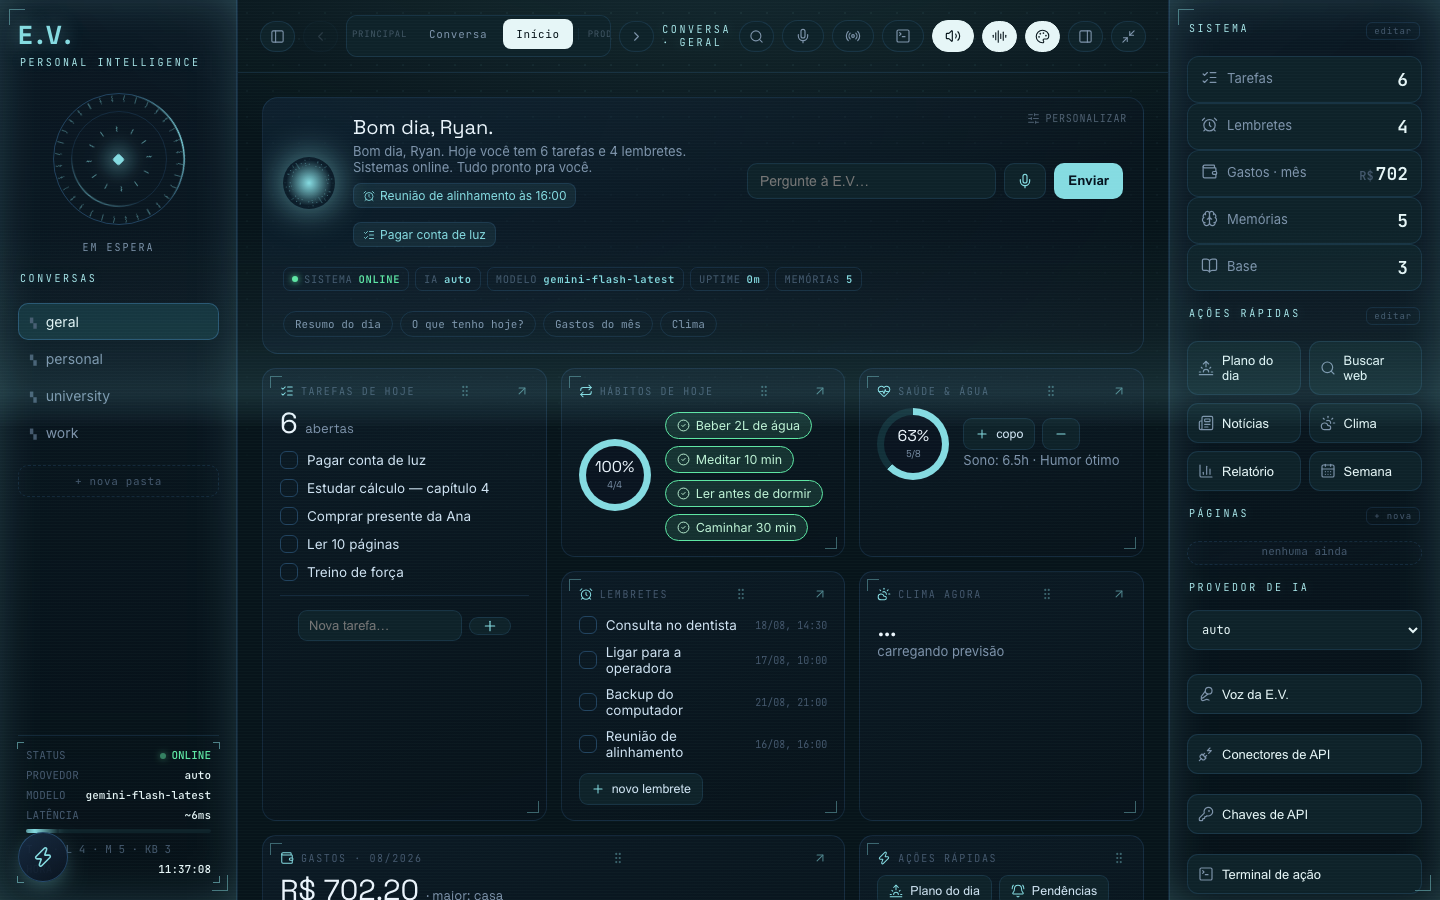
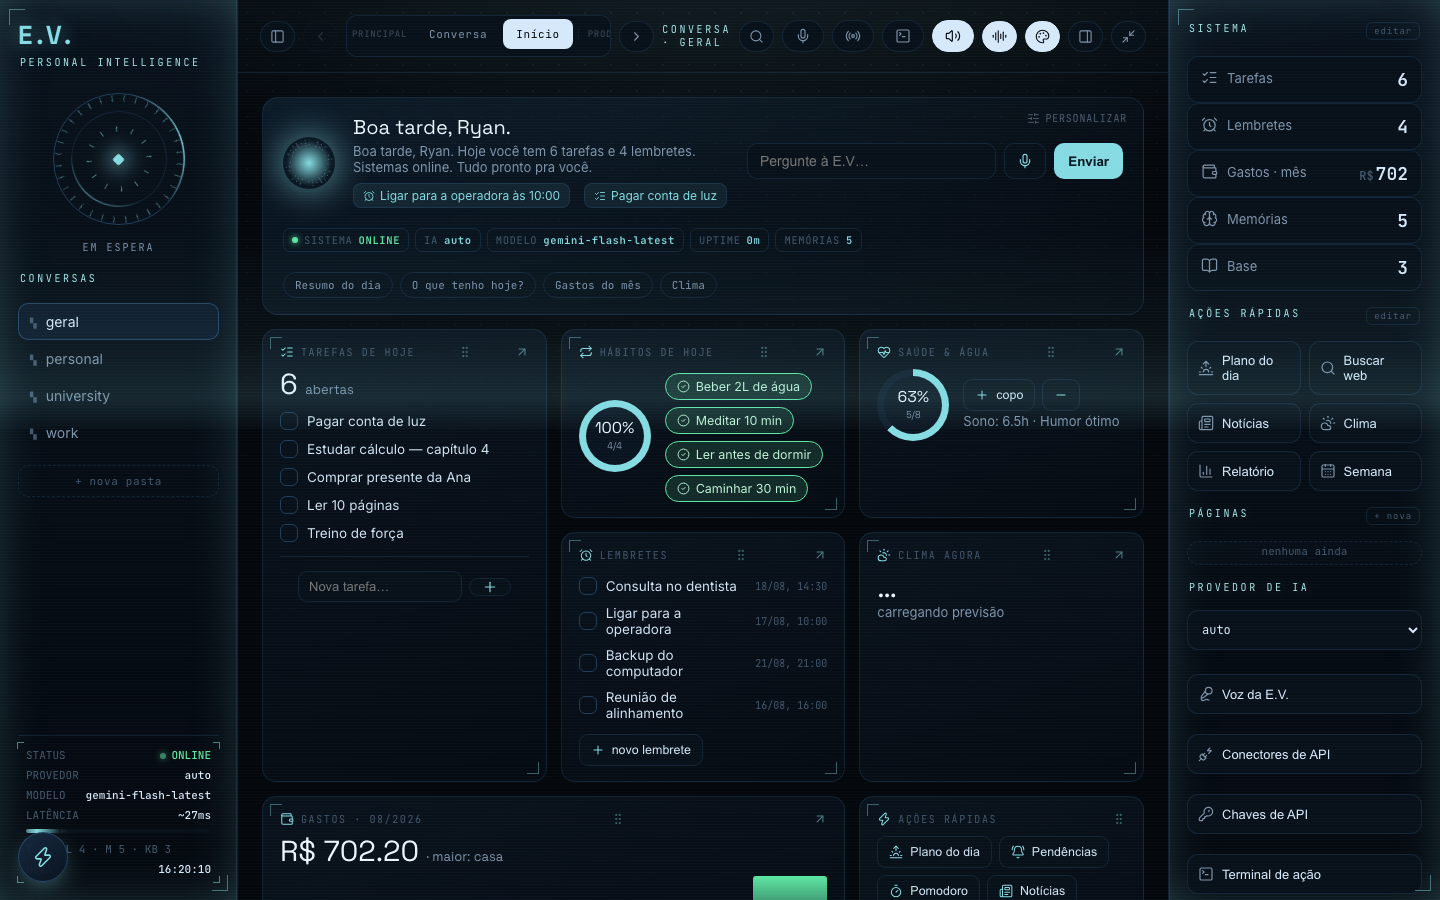
fix(web): Brand New Day keeps the default dark background
Brand New Day should share the traditional theme's dark background and only
recolor the HIGHLIGHTS (accent/borders/glow/reactor core) to the cyan-aqua
tone. Dropped the body.bnd background overrides (--ink/--panel/--elev/
--surface/--fg) so they inherit the :root defaults; kept only the accent
overrides. Regenerated the Brand New Day screenshot to match.

diff --git a/ev/interfaces/web/frontend.py b/ev/interfaces/web/frontend.py
@@ -493,10 +493,10 @@ body.serious #serfx{opacity:1;box-shadow:inset 0 0 150px -50px rgba(255,45,55,.6
    override das custom props (NÃO é hue-rotate); terceiro estado opt-in via body.bnd.
    Ativa/desativa client-side; persiste em localStorage.ev_theme. --- */
 body.bnd{
+  /* mesmo fundo escuro do tema tradicional (:root) — só recolore os DESTAQUES
+     (accent/bordas/brilho) para o ciano-aqua Brand New Day */
   --accent:#85dbe1;--accent-rgb:133,219,225;--line-rgb:133,219,225;--accent-dim:#1f5e78;
-  --ink:#07141a;--panel:#0b1d24;--elev:#123039;--surface:#0e2229;
-  --fg:#e6f6f7;--glow:rgba(var(--accent-rgb),.6);
-  transition:background .5s;
+  --glow:rgba(var(--accent-rgb),.6);
 }
 /* retinta os cyans hardcoded que não seguem as variáveis (só sob body.bnd) — tons ice-blue */
 body.bnd *{scrollbar-color:#2a5f64 transparent}
